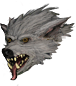
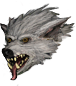
add groomed white wolves and goblin wolf fixes     4 variants of tamed white direwolves     fix goblin wolf body brush draw     fix goblin direwolf body brush draw

diff --git a/buildscript/python/make_legend_enemies.py b/buildscript/python/make_legend_enemies.py
@@ -242,6 +242,31 @@ enemies = r"""
 <sprite id="bust_direwolf_white_injured" offsetY="35" ic="FF111131" width="104" height="142" img="entity\beasts\bust_direwolf_white_injured.png" left="-42" right="30" top="-36" bottom="26" />
 <sprite id="bust_direwolf_white_01_body_dead_arrows" offsetX="4" offsetY="24" f="64FB" ic="FF474D52" width="179" height="154" img="entity\beasts\bust_direwolf_white_01_body_dead_arrows.png" left="-5" right="33" top="-16" bottom="32" />
 <sprite id="bust_direwolf_white_01_body_dead_javelin" offsetX="4" offsetY="24" f="64FB" ic="FF151C29" width="179" height="154" img="entity\beasts\bust_direwolf_white_01_body_dead_javelin.png" left="-2" right="44" top="-11" bottom="61" />
+<sprite id="bust_direwolf_white_tame_01_body" offsetY="35" ic="FF1B2126" width="104" height="142" img="entity\beasts\bust_direwolf_white_tame_01_body.png" top="-62" bottom="38" />
+<sprite id="bust_direwolf_white_tame_01_body_dead" offsetX="4" offsetY="24" f="64FF" ic="FF1B1E2A" width="179" height="154" img="entity\beasts\bust_direwolf_white_tame_01_body_dead.png" left="-84" right="82" top="-61" bottom="59" />
+<sprite id="bust_direwolf_white_tame_01_head" offsetY="35" ic="FF242930" width="104" height="142" img="entity\beasts\bust_direwolf_white_tame_01_head.png" left="-52" right="24" top="-46" bottom="40" />
+<sprite id="bust_direwolf_white_tame_01_head_dead" offsetX="4" offsetY="24" f="64F6" ic="FF222630" width="179" height="154" img="entity\beasts\bust_direwolf_white_tame_01_head_dead.png" left="-41" right="35" top="-61" bottom="7" />
+<sprite id="bust_direwolf_white_tame_01_body_dead_arrows" offsetX="4" offsetY="24" f="64FB" ic="FF474D52" width="179" height="154" img="entity\beasts\bust_direwolf_white_01_body_dead_arrows.png" left="-5" right="33" top="-16" bottom="32" />
+<sprite id="bust_direwolf_white_tame_01_body_dead_javelin" offsetX="4" offsetY="24" f="64FB" ic="FF151C29" width="179" height="154" img="entity\beasts\bust_direwolf_white_01_body_dead_javelin.png" left="-2" right="44" top="-11" bottom="61" />
+<sprite id="bust_direwolf_white_tame_02_body" offsetY="35" ic="FF1B2126" width="104" height="142" img="entity\beasts\bust_direwolf_white_tame_02_body.png" top="-62" bottom="38" />
+<sprite id="bust_direwolf_white_tame_02_body_dead" offsetX="4" offsetY="24" f="64FF" ic="FF1B1E2A" width="179" height="154" img="entity\beasts\bust_direwolf_white_tame_02_body_dead.png" left="-84" right="82" top="-61" bottom="59" />
+<sprite id="bust_direwolf_white_tame_02_head" offsetY="35" ic="FF242930" width="104" height="142" img="entity\beasts\bust_direwolf_white_tame_02_head.png" left="-52" right="24" top="-46" bottom="40" />
+<sprite id="bust_direwolf_white_tame_02_head_dead" offsetX="4" offsetY="24" f="64F6" ic="FF222630" width="179" height="154" img="entity\beasts\bust_direwolf_white_tame_02_head_dead.png" left="-41" right="35" top="-61" bottom="7" />
+<sprite id="bust_direwolf_white_tame_02_body_dead_arrows" offsetX="4" offsetY="24" f="64FB" ic="FF474D52" width="179" height="154" img="entity\beasts\bust_direwolf_white_01_body_dead_arrows.png" left="-5" right="33" top="-16" bottom="32" />
+<sprite id="bust_direwolf_white_tame_02_body_dead_javelin" offsetX="4" offsetY="24" f="64FB" ic="FF151C29" width="179" height="154" img="entity\beasts\bust_direwolf_white_01_body_dead_javelin.png" left="-2" right="44" top="-11" bottom="61" />
+<sprite id="bust_direwolf_white_tame_03_body" offsetY="35" ic="FF1B2126" width="104" height="142" img="entity\beasts\bust_direwolf_white_tame_03_body.png" top="-62" bottom="38" />
+<sprite id="bust_direwolf_white_tame_03_body_dead" offsetX="4" offsetY="24" f="64FF" ic="FF1B1E2A" width="179" height="154" img="entity\beasts\bust_direwolf_white_tame_03_body_dead.png" left="-84" right="82" top="-61" bottom="59" />
+<sprite id="bust_direwolf_white_tame_03_head" offsetY="35" ic="FF242930" width="104" height="142" img="entity\beasts\bust_direwolf_white_tame_03_head.png" left="-52" right="24" top="-46" bottom="40" />
+<sprite id="bust_direwolf_white_tame_03_head_dead" offsetX="4" offsetY="24" f="64F6" ic="FF222630" width="179" height="154" img="entity\beasts\bust_direwolf_white_tame_03_head_dead.png" left="-41" right="35" top="-61" bottom="7" />
+<sprite id="bust_direwolf_white_tame_03_body_dead_arrows" offsetX="4" offsetY="24" f="64FB" ic="FF474D52" width="179" height="154" img="entity\beasts\bust_direwolf_white_01_body_dead_arrows.png" left="-5" right="33" top="-16" bottom="32" />
+<sprite id="bust_direwolf_white_tame_03_body_dead_javelin" offsetX="4" offsetY="24" f="64FB" ic="FF151C29" width="179" height="154" img="entity\beasts\bust_direwolf_white_01_body_dead_javelin.png" left="-2" right="44" top="-11" bottom="61" />
+<sprite id="bust_direwolf_white_tame_04_body" offsetY="35" ic="FF1B2126" width="104" height="142" img="entity\beasts\bust_direwolf_white_tame_04_body.png" top="-62" bottom="38" />
+<sprite id="bust_direwolf_white_tame_04_body_dead" offsetX="4" offsetY="24" f="64FF" ic="FF1B1E2A" width="179" height="154" img="entity\beasts\bust_direwolf_white_tame_04_body_dead.png" left="-84" right="82" top="-61" bottom="59" />
+<sprite id="bust_direwolf_white_tame_04_head" offsetY="35" ic="FF242930" width="104" height="142" img="entity\beasts\bust_direwolf_white_tame_04_head.png" left="-52" right="24" top="-46" bottom="40" />
+<sprite id="bust_direwolf_white_tame_04_head_dead" offsetX="4" offsetY="24" f="64F6" ic="FF222630" width="179" height="154" img="entity\beasts\bust_direwolf_white_tame_04_head_dead.png" left="-41" right="35" top="-61" bottom="7" />
+<sprite id="bust_direwolf_white_tame_04_body_dead_arrows" offsetX="4" offsetY="24" f="64FB" ic="FF474D52" width="179" height="154" img="entity\beasts\bust_direwolf_white_01_body_dead_arrows.png" left="-5" right="33" top="-16" bottom="32" />
+<sprite id="bust_direwolf_white_tame_04_body_dead_javelin" offsetX="4" offsetY="24" f="64FB" ic="FF151C29" width="179" height="154" img="entity\beasts\bust_direwolf_white_01_body_dead_javelin.png" left="-2" right="44" top="-11" bottom="61" />
+
 <sprite id="bust_ghoulskin_01_injured" offsetY="35" ic="FF131231" width="104" height="142" img="entity\beasts\bust_ghoulskin_01_injured.png" left="-25" right="35" top="-44" bottom="14" />
 <sprite id="bust_ghoulskin_02_head_03" offsetY="35" ic="FF31363A" width="104" height="142" img="entity\beasts\bust_ghoulskin_02_head_01.png" left="-43" right="35" top="-34" bottom="46" />
 <sprite id="bust_ghoulskin_02_head_03_dead" offsetX="5" offsetY="20" f="64F6" f1="30" f2="-15" ic="FF373E45" width="169" height="139" img="entity\beasts\bust_ghoulskin_02_head_01_dead.png" left="-9" right="73" top="-70" bottom="14" />